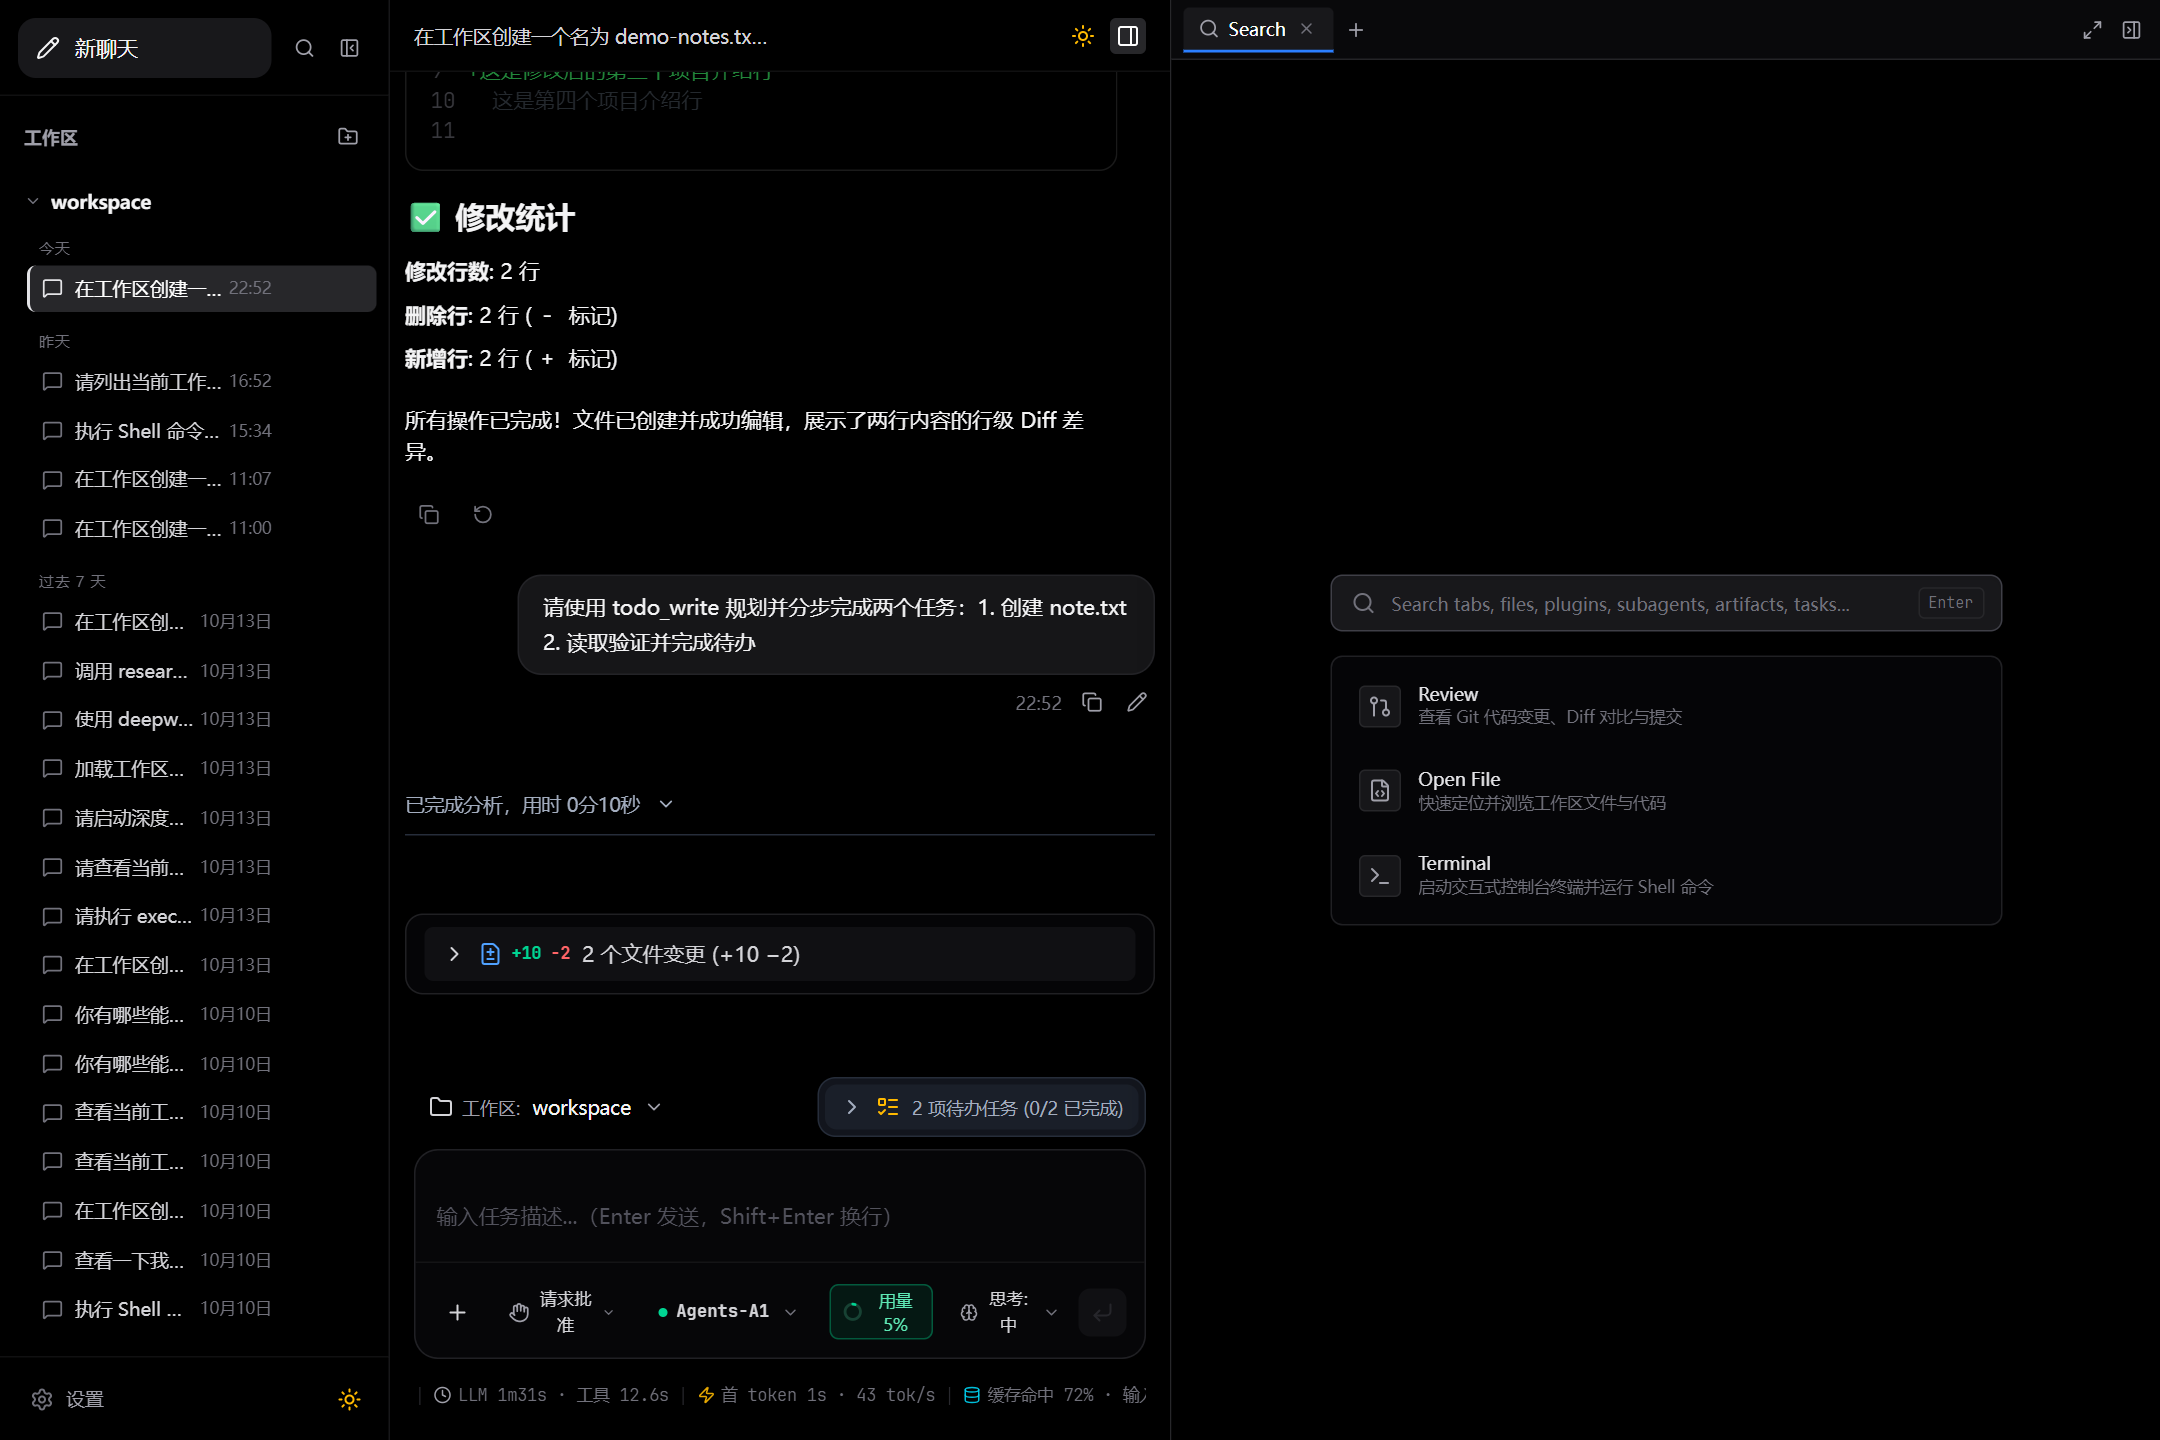
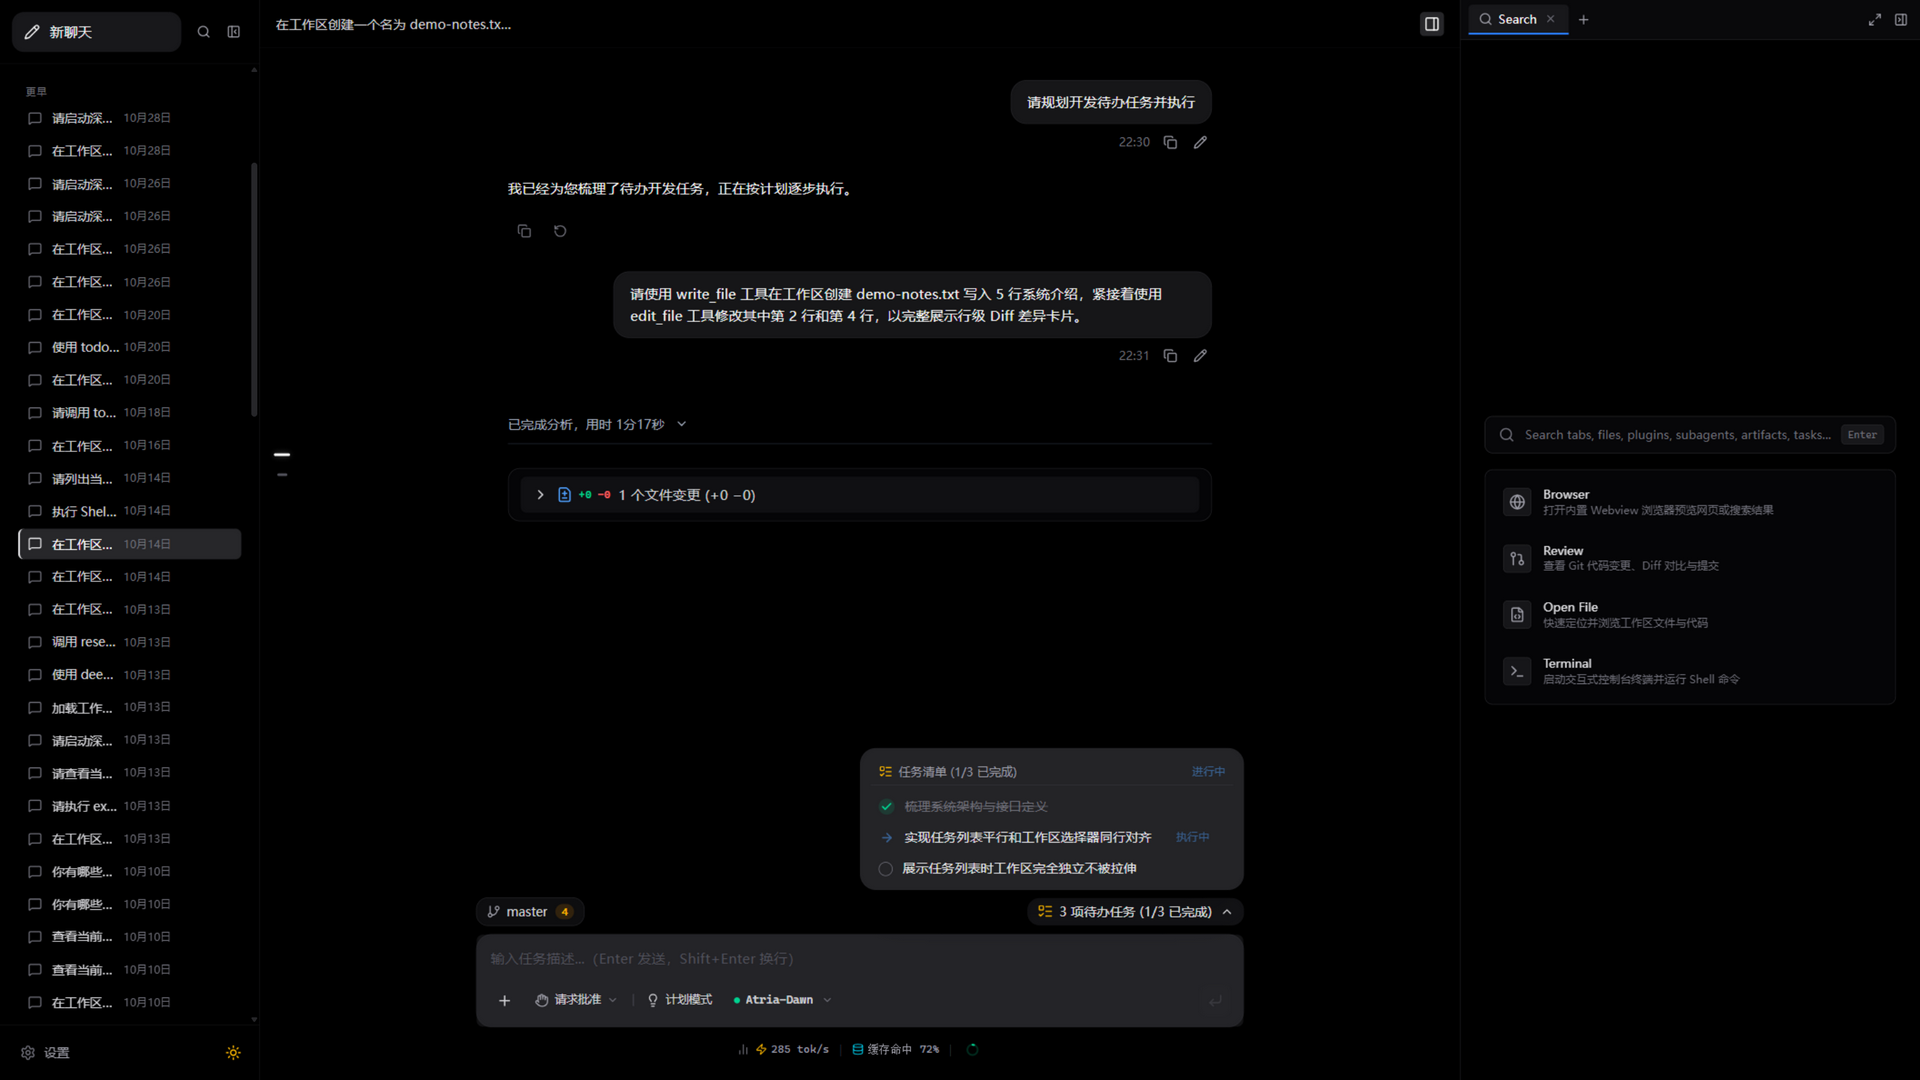
docs(readme): 新增「最近更新」章节并替换主界面/设置面板截图（通用/AI/电脑三页）

diff --git a/README.md b/README.md
@@ -6,6 +6,28 @@
 
 ---
 
+## 🆕 最近更新 (Recent Changes)
+
+### 1. 设置面板重构：Maf 式双栏布局 (Settings Panel Redesign)
+设置弹窗全面迁移为 Maf 式双栏布局——左侧为搜索框与模块导航，右侧为详情内容，内置「通用 / AI / 电脑」三大模块：
+- **通用**：三档主题切换（系统默认 / 浅色 / 深色），跟随系统或手动固定；
+- **AI**：预设厂商卡片网格 + 「更多提供方」折叠网格 + 搜索过滤 + 厂商详情表单，添加、探测与保存一气呵成；
+- **电脑**：Computer Use 开关（详见下节）。
+
+| 设置中心 - 通用页（三档主题） | 设置中心 - 电脑页（Computer Use 开关） |
+| :---: | :---: |
+| ![设置中心通用页](docs/images/20-settings-general-tab.png) | ![设置中心电脑页](docs/images/21-settings-computer-use-tab.png) |
+
+### 2. Computer Use 开关前后端闭环 (Computer Use Toggle)
+- 新增 `GET / PUT /api/settings/computer-use` 接口，配置持久化至 `.data/settings.json`，**默认关闭**；
+- 仅在开关开启后才挂载 `agent-desktop` computer-use 子代理（stdio MCP 桌面工具），关闭态不加载任何桌面能力；
+- **关闭态兜底**：模型会明确提示前往设置开启，严禁写文件冒充执行；接口异常时返回中文 `RUN_ERROR` 兜底提示，前端可优雅呈现。
+
+### 3. agent-desktop 进程树清理 (Process Tree Cleanup)
+agent-desktop MCP 工具进程通过 pidfile 登记，会话结束或异常退出后自动 `taskkill` 清理整个进程树，并同步清理 overlay 会话目录，杜绝遗留进程与垃圾文件。
+
+---
+
 ## 📸 功能界面预览 (Feature Showcase)
 
 ### 1. 智能体工作台主界面 (Dashboard Overview)
